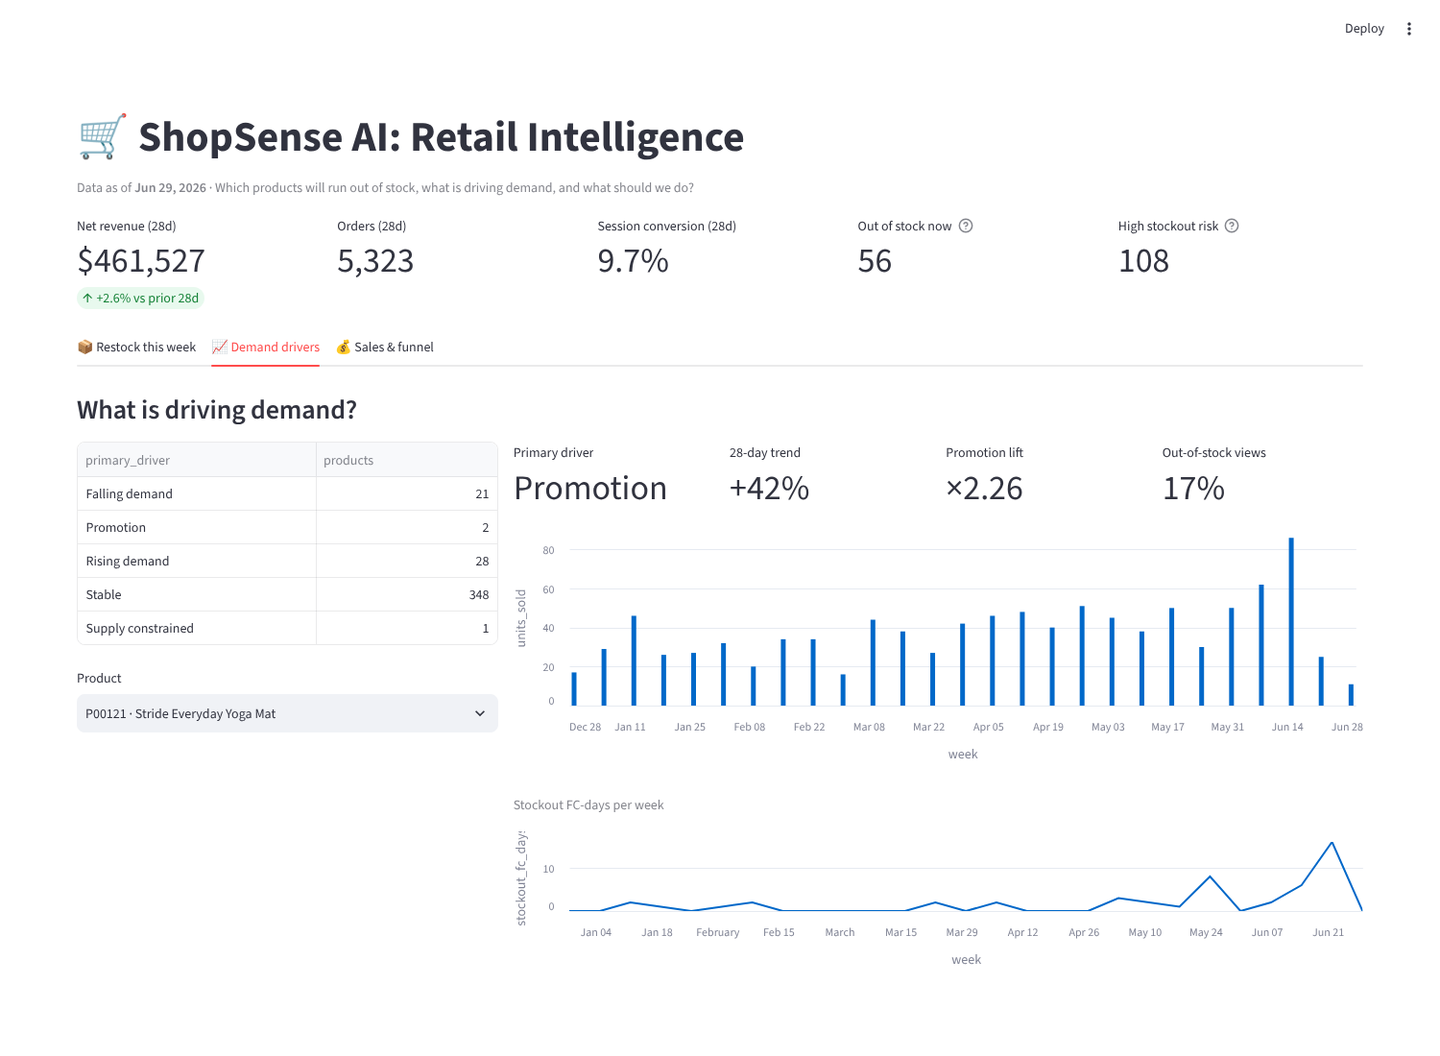
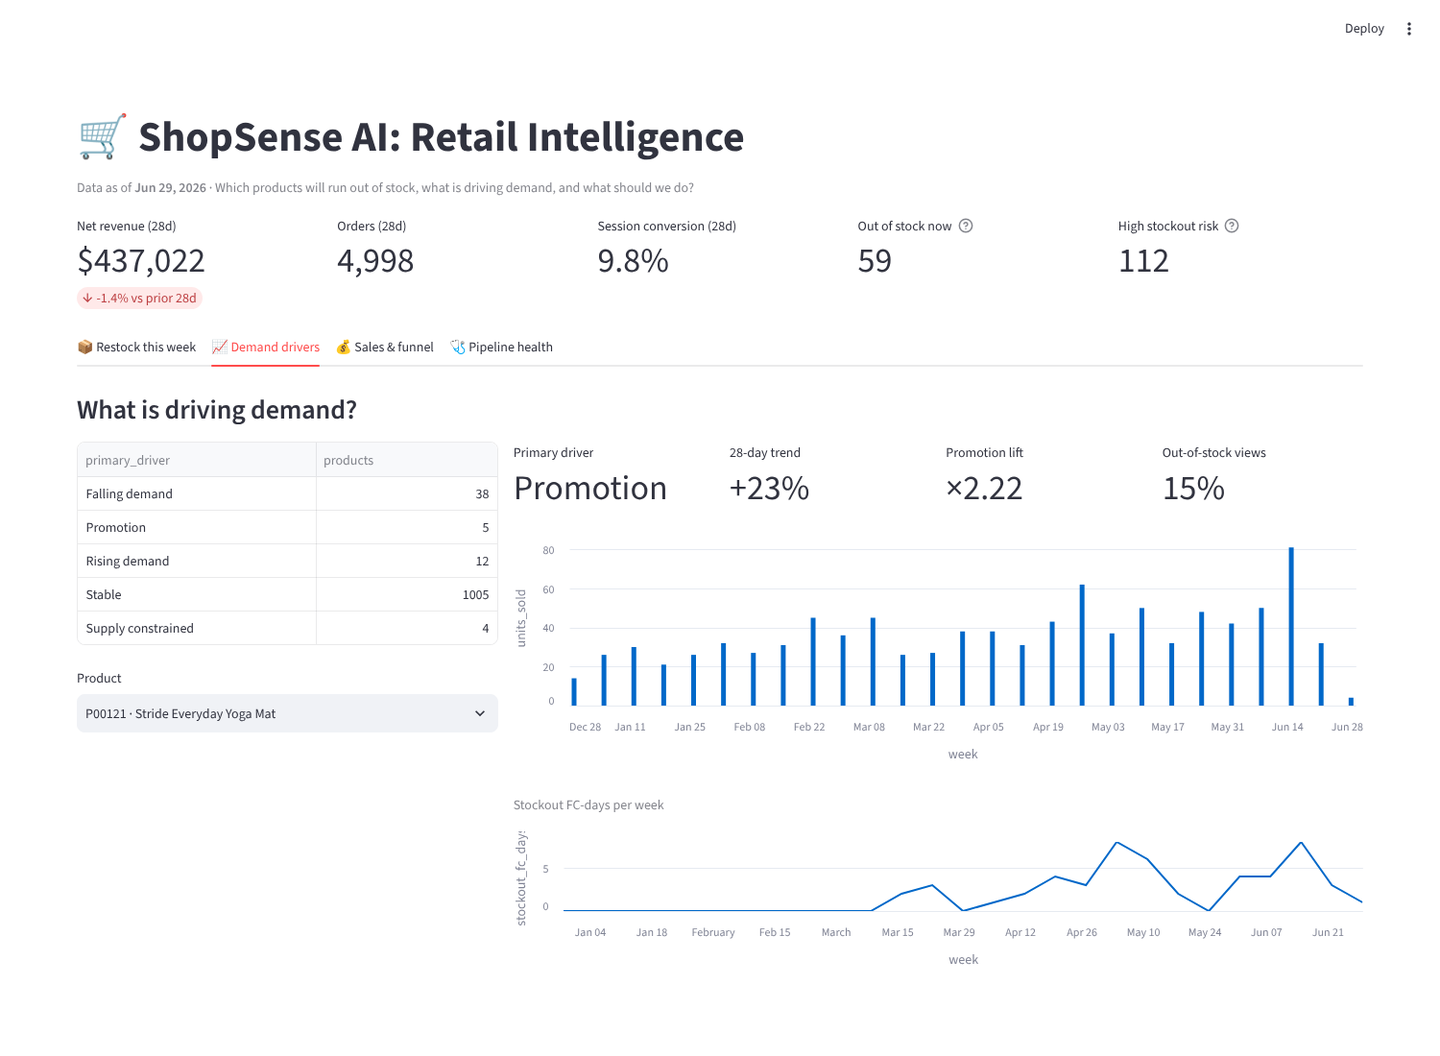
Document stage 2: reliability results, SCD2, quality gates, Airflow, and performance

diff --git a/README.md b/README.md
@@ -11,94 +11,125 @@ An end-to-end retail data platform that turns orders, customer activity, invento
 | Stage | Scope | Status |
 |---|---|---|
 | **1. Core platform** | Retail data → S3-style lake → PySpark transformations → star-schema warehouse → dashboard | ✅ Done |
-| 2. Production reliability | Airflow orchestration, incremental loads, data-quality checks, monitoring, backfills, SCD Type 2, real S3 (MinIO/AWS) | Planned |
-| 3. Streaming | Simulated live orders and clicks, deduplication, late-event handling with watermarks | Planned |
+| **2. Production reliability** | Incremental loads and backfills, SCD Type 2, data-quality gates, Airflow orchestration, monitoring, runbook, performance evidence | ✅ Done |
+| 3. Streaming | Simulated live orders and clicks, deduplication, late-event handling with watermarks | Next |
 | 4. AI | Review summaries and a business assistant that cites the metrics behind its answers | Planned |
+| AWS deployment | Real S3 (MinIO locally), Glue jobs, Redshift Serverless | Planned. Today these are local stand-ins (see [Notes](#notes-and-limitations)). |
 
-## Architecture (stage 1)
+## Architecture
 
 ```mermaid
 flowchart LR
     subgraph Sources["Source systems (simulated)"]
-        GEN["retail_data.py<br/>orders · items · clicks · inventory<br/>products · customers · promotions · reviews"]
+        GEN["retail_data.py<br/>orders · status updates · items · clicks<br/>inventory · catalog snapshots · customer CDC<br/>promotions · reviews"]
     end
-    LAND[("landing/<br/>CSV · JSON · json.gz")]
+    LAND[("landing/")]
     subgraph Lake["Data lake (S3 layout, local folders)"]
-        RAW[("raw/<br/>ingest_date=…<br/>immutable + checksums")]
-        CLEAN[("clean/<br/>Parquet, by business date")]
-        Q[("quarantine/<br/>rejected rows + reason")]
-        CUR[("curated/<br/>star schema Parquet")]
+        RAW[("raw/ ingest_date=…<br/>immutable + checksums")]
+        STG[("_staging/")]
+        CLEAN[("clean/<br/>Parquet by business date")]
+        Q[("quarantine/")]
+        CUR[("curated/<br/>star schema, SCD2 dims")]
+        STATE[("_state/ watermarks<br/>pending changes")]
     end
     subgraph WH["Warehouse (DuckDB · Redshift DDL included)"]
-        DW[("dw.* dims + facts<br/>PKs enforced")]
-        MART["mart.* views<br/>sales · funnel · inventory risk<br/>demand drivers · restock"]
+        DW[("dw.* dims + facts")]
+        OPS[("ops.load_log<br/>ops.dq_results")]
+        MART["mart.* sales · funnel · risk<br/>drivers · restock"]
     end
-    DASH["Streamlit dashboard"]
-    BT["Backtest<br/>stockout flag vs reality"]
+    AF{{"Airflow<br/>shopsense_daily"}}
+    DQ["Data-quality gates"]
+    DASH["Streamlit dashboard<br/>+ pipeline health"]
 
-    GEN --> LAND -->|land_raw.py| RAW
-    RAW -->|PySpark clean.py| CLEAN
-    RAW -->|invalid| Q
-    CLEAN -->|PySpark curate.py| CUR
-    CUR -->|load.py + integrity checks| DW --> MART
-    MART --> DASH
-    MART --> BT
+    GEN --> LAND -->|ingest| RAW
+    RAW -->|PySpark clean, new dates only| STG
+    STG -->|audit| DQ
+    DQ -->|publish changed partitions| CLEAN
+    RAW -->|invalid rows| Q
+    CLEAN --> STATE
+    CLEAN -->|PySpark curate| CUR
+    CUR -->|upsert dims, replace fact partitions| DW
+    DW --> DQ
+    DW --> MART --> DASH
+    OPS --> DASH
+    AF -.orchestrates.-> RAW & CLEAN & CUR & DW
 ```
 
 | Layer | What happens | Code |
 |---|---|---|
-| Generate | Six months of a simulated retailer: popularity × seasonality × promotions drive demand; five fulfillment centers with reorder-point policies produce real stockouts; dirty data is injected on purpose | `shopsense/generate/retail_data.py` |
-| Ingest | Landing → raw, copied byte-for-byte into `ingest_date=` partitions with SHA-256 manifests. Re-runs are skipped; a changed re-delivery is refused unless `--force` | `shopsense/ingest/land_raw.py` |
-| Clean (PySpark) | Typing, two timestamp formats, canonical categories and statuses, validation rules → quarantine with reasons, dedup on business keys, Parquet partitioned by business date (late events land in the right day) | `shopsense/transform/clean.py` |
-| Curate (PySpark) | Star schema: 5 dimensions with surrogate keys and unknown members, 5 facts at explicit grains | `shopsense/transform/curate.py` |
-| Warehouse | Full refresh in one transaction, enforced primary keys, orphan-key and row-count checks, business marts | `shopsense/warehouse/load.py`, `sql/warehouse/` |
-| Redshift | Same schema with `DISTSTYLE ALL` dimensions, `DISTKEY(product_key)`, `SORTKEY(date_key)` and S3 `COPY` (reference, not yet run on AWS) | `sql/redshift/create_tables.sql` |
-| Dashboard | Restock list with actions, demand drivers per product, sales and funnel | `dashboard/app.py` |
+| Generate | Six months of a simulated retailer. Popularity × seasonality × promotions drive demand, and five fulfillment centers with reorder policies produce real stockouts. Products are repriced every Monday, customers move or change membership, and orders are shipped, delivered, cancelled or returned. Dirty data is injected on purpose. | `shopsense/generate/retail_data.py` |
+| Ingest | Landing → raw, copied byte-for-byte into `ingest_date=` partitions with SHA-256 manifests. Re-runs are skipped; a changed re-delivery is refused unless `--force`. | `shopsense/ingest/land_raw.py` |
+| Clean (PySpark, incremental) | Processes only unseen deliveries (watermark state). Handles typing, two timestamp formats and canonical values; invalid rows go to quarantine with a reason; duplicates are removed on business keys. New rows are **merged into only the business-date partitions they touch** via staging → quality checks → publish. Backfills (`--from/--to`) are idempotent. | `shopsense/transform/clean.py` |
+| Curate (PySpark) | Star schema with **SCD Type 2** product and customer dimensions, stable hash surrogate keys, point-in-time lookups, and the latest order status. | `shopsense/transform/curate.py` |
+| Warehouse (incremental) | Dimensions are upserted by primary key; facts **replace only the changed date partitions**. One transaction with integrity and quality checks, otherwise it rolls back. Every load is logged to `ops.load_log`. | `shopsense/warehouse/load.py`, `sql/warehouse/` |
+| Data quality | Lake checks on staged data: keys, nulls, accepted values, day-over-day volume, quarantine rate. Warehouse checks: freshness, completeness, SCD2 validity, revenue sanity, reconciliation. **Errors block publishing.** | `shopsense/quality/checks.py` |
+| Orchestration | Airflow 3 DAG `shopsense_daily` (sensor → ingest → clean → curate → load), with retries and backoff, catch-up backfills, and a `shopsense_reprocess` DAG for corrections | `airflow/` |
+| Monitoring | Dashboard tab for freshness, failing checks, quarantine trend, recent loads and Airflow runs, plus an incident runbook | `dashboard/app.py`, `docs/runbook.md` |
+| Redshift | Same schema with `DISTSTYLE ALL` dimensions, `DISTKEY(product_key)`, `SORTKEY(date_key)`, S3 `COPY`, and the incremental `DELETE`/`INSERT` pattern (reference, not yet run on AWS) | `sql/redshift/create_tables.sql` |
 
-The data model, lake zones and design decisions are in [`docs/data_model.md`](docs/data_model.md).
+Details: [data model](docs/data_model.md) · [performance](docs/performance.md) · [runbook](docs/runbook.md) · [Airflow](airflow/README.md)
 
 ## How the stockout answer is built
 
 `mart.restock_this_week` answers the question directly. For each product at each fulfillment center:
 
-1. **Demand estimate:** units sold in the last 28 days ÷ *days the FC actually had stock*. A product that was out of stock for half the window really sells twice as fast as its raw average suggests.
+1. **Demand estimate:** units sold in the last 28 days ÷ *days the FC actually had stock*. Stockout days would otherwise hide real demand.
 2. **Days of cover** = on hand ÷ daily demand, which gives a **projected stockout date**.
-3. **Risk tier:** *Out of stock* (0 on hand), *High* (< 7 days of cover), *Medium* (< 14), *Low*.
+3. **Risk tier:** *Out of stock*, *High* (< 7 days of cover), *Medium* (< 14), *Low*.
 4. **Action:** reorder enough to cover a 10-day lead time plus 21 days of demand, minus stock on hand and inbound. If stock is already inbound, the action is to expedite it instead.
-5. **Why:** `mart.demand_drivers` labels each product as *Promotion* (lift ≥ 1.3× while on promo), *Supply constrained* (≥ 20% of page views saw "out of stock"), *Rising / Falling demand* (±25% vs the prior 28 days, only with enough volume), or *Stable*.
+5. **Why:** `mart.demand_drivers` labels each product as *Promotion*, *Supply constrained*, *Rising / Falling demand* (only with enough volume), or *Stable*.
 
-## Results (seed 42, 180 days, 2,000 product × FC combinations)
+## Results (seed 42, 180 simulated days)
 
-**Data volume and quality**
+### Reliability: does incremental processing give the right answer?
+- **Incremental = full rebuild.** The lake was built up to day N−4, then 4 more days were processed one at a time. All **10 warehouse tables came out identical** to a full rebuild (row-by-row `EXCEPT ALL` in both directions). The comparison also caught a real bug: a non-deterministic `first()` picked a session's device differently between runs. It's now `min_by(…, event_ts)`.
+- **Small loads:** each incremental day replaced 1–3 date partitions for inventory, sessions and activity, and 12–16 for order lines, because status updates reach back to older orders.
+- **Backfills are idempotent:** reprocessing three already-loaded days changed **0 rows**.
+- **Quality gates work:** a truncated delivery (11 orders against a 186-order median) was **blocked before publishing**. The clean table was unchanged, and the date stayed unprocessed for the retry.
+- **Rollbacks work:** an error-level warehouse check rolls back the whole load and keeps the pending changes (tested).
+
+### Data volume and quality
 
 | Table | Raw rows | Clean rows | Quarantined | Duplicates removed |
 |---|---:|---:|---:|---:|
-| orders | 32,441 | 32,105 | 0 | 336 |
-| order_items | 55,197 | 54,550 | 104 | 543 |
-| clickstream | 1,023,234 | 1,002,452 | 875 | 19,907 |
+| orders | 32,492 | 32,147 | 0 | 345 |
+| order_status_updates | 64,551 | 63,893 | 0 | 658 |
+| order_items | 55,179 | 54,515 | 122 | 542 |
+| clickstream | 1,021,694 | 1,000,738 | 821 | 20,135 |
 | inventory_snapshots | 360,000 | 360,000 | 0 | 0 |
-| reviews | 3,480 | 3,468 | 12 | 0 |
+| catalog snapshots | 10,800 | 10,800 | 0 | 0 |
+| customer CDC | 6,751 | 6,751 | 0 | 0 |
+| reviews | 3,490 | 3,477 | 13 | 0 |
 
-- Every legacy-format timestamp (2% of orders) parsed, and every messy status and category was mapped to its canonical value.
-- **11,876 events arrived 1–2 days late**, and all of them were filed under the day they happened.
-- Reconciliation checks: warehouse net revenue matches the clean lake to the cent ($2,754,403.27), converted sessions equal clean orders, and there are 0 orphan keys.
+- **SCD Type 2:** 400 products became 1,064 versions, with 337 products repriced at least once. 703 customers have more than one version. **100% of order lines match the price of the product version valid on their order date.**
+- **11,783 late events** (1–2 days late) were filed under the day they happened.
+- **67 data-quality checks**, all passing on the final run.
+- Order lifecycle: 29,148 delivered, 1,394 returned, 692 shipped, 648 cancelled (excluded from revenue), 228 still placed. Net revenue is $2.70M, with $123k returned.
 
-**Business output (as of Jun 29, 2026)**
-- 56 product × FC combinations out of stock and 108 at high risk, putting **$4,182 a day of revenue** at risk.
-- Session conversion is 9.8%, and **10.5% of sessions hit an out-of-stock page**.
+### Business output (as of Jun 29, 2026)
+- 59 product × FC combinations out of stock and 112 at high risk, putting **$4,755 a day of revenue** at risk.
+- Session conversion is 9.8%, and 9.9% of sessions hit an out-of-stock page.
 
-**Backtest: is the High flag right?** On every Monday in the history I checked whether each product × FC flagged High actually stocked out within 7 days (21 weeks, 33,070 observations, 1,735 real stockouts).
+**Backtest of the High flag** (every Monday: did the product × FC actually stock out within 7 days?):
 
 | Demand estimate | Flagged | Caught | Precision | Recall |
 |---|---:|---:|---:|---:|
-| Stockout-adjusted (used) | 2,069 | 661 | 31.9% | **38.1%** |
-| Naive (units ÷ 28 days) | 1,814 | 615 | 33.9% | 35.4% |
+| Stockout-adjusted (used) | 2,163 | 641 | 29.6% | **39.4%** |
+| Naive (units ÷ 28 days) | 1,460 | 502 | 34.4% | 30.9% |
 
-The stockout adjustment catches more real stockouts (recall +2.7 points) at slightly lower precision. A rule this simple still misses most stockouts: demand per product and FC is only 1–2 units a day, so random variation is large, and the inventory feed doesn't say *when* inbound stock will arrive. This is a transparent baseline that the forecasting work in later stages has to beat.
+The stockout adjustment catches 28% more real stockouts (recall 39.4% vs 30.9%) at lower precision. A days-of-cover rule still misses most stockouts: demand per product and FC is 1–2 units a day, and the feed doesn't say when inbound stock arrives. This is a transparent baseline for later forecasting to beat.
 
-**Runtime and storage:** the full pipeline runs in about 2.5 minutes on a laptop (generate 58 s, clean 66 s, curate 17 s, warehouse load 1.5 s). The lake is 38 MB raw → 33 MB clean → 8.3 MB curated. Writing one file per date partition instead of Spark's default cut the clean zone from 51 MB to 33 MB and avoided hundreds of tiny files.
+### Performance ([details](docs/performance.md))
 
-![Demand drivers](docs/images/dashboard_drivers.png)
+| Experiment | Before | After |
+|---|---:|---:|
+| Raw gzip JSON → Parquet (daily views per product) | 0.488 s | **0.078 s** (6.3×) |
+| Partition pruning (one week of sessions) | 181 files / 22 MB | **7 files / 0.8 MB**, 4× faster |
+| Small files → one file per day | 0.054 s | **0.022 s** (2.5×) |
+| Materialize `mart.product_fc_daily` (21-date backtest) | 0.556 s | **0.342 s** (1.6×) |
+
+![Pipeline health](docs/images/dashboard_health.png)
+*The Airflow row comes from the `airflow dags test` run described in [airflow/README.md](airflow/README.md).*
 
 ## Setup
 
@@ -111,31 +142,28 @@ python3.12 -m venv .venv && source .venv/bin/activate
 pip install -r requirements.txt
 ```
 
-On macOS, install Java with `brew install openjdk@21`.
+On macOS, install Java with `brew install openjdk@21`. To set up Airflow, see [airflow/README.md](airflow/README.md); it uses its own virtualenv.
 
 ## Run
 
 ```bash
-python -m shopsense.pipeline                 # generate → ingest → clean → curate → load → backtest
-streamlit run dashboard/app.py               # open http://localhost:8501
-pytest                                       # 21 tests, about 80 s
+python -m shopsense.pipeline                 # fresh run: generate → ingest → clean → curate → load → backtest
+python -m shopsense.pipeline --skip-generate # incremental: only new deliveries
+streamlit run dashboard/app.py               # http://localhost:8501
+pytest                                       # 33 tests, about 4.5 minutes
 ```
 
-Or one stage at a time:
+Individual steps:
 
 ```bash
-python -m shopsense.generate.retail_data     # landing files (--days, --seed)
-python -m shopsense.ingest.land_raw          # landing → raw (--date, --force)
-python -m shopsense.transform.clean          # raw → clean + quarantine
-python -m shopsense.transform.curate         # clean → star schema
-python -m shopsense.warehouse.load           # curated → warehouse + marts
-python -m shopsense.warehouse.backtest       # evaluate the stockout flag
-```
-
-Query the warehouse directly:
-
-```bash
-duckdb warehouse/shopsense.duckdb "SELECT * FROM mart.restock_this_week LIMIT 10"
+python -m shopsense.ingest.land_raw --date 2026-06-29 [--force]
+python -m shopsense.transform.clean                          # new deliveries only
+python -m shopsense.transform.clean --from 2026-03-01 --to 2026-03-07   # backfill (idempotent)
+python -m shopsense.transform.clean --full                   # rebuild the clean zone
+python -m shopsense.transform.curate
+python -m shopsense.warehouse.load [--full]                  # incremental by default
+python -m shopsense.warehouse.backtest
+python -m shopsense.warehouse.benchmark                      # performance experiments
 ```
 
 ## Project structure
@@ -143,27 +171,31 @@ duckdb warehouse/shopsense.duckdb "SELECT * FROM mart.restock_this_week LIMIT 10
 ```
 Shopsense-AI/
 ├── shopsense/
-│   ├── config.py                 # lake / warehouse paths (env-overridable)
-│   ├── pipeline.py               # end-to-end runner with step timings
-│   ├── generate/retail_data.py   # simulated retailer + dirty data
-│   ├── ingest/land_raw.py        # landing → raw, checksums, audit log
+│   ├── config.py                  # lake / warehouse paths (env-overridable)
+│   ├── pipeline.py                # one-command runner with step timings
+│   ├── generate/retail_data.py    # simulated retailer + change feeds + dirty data
+│   ├── ingest/land_raw.py         # landing → raw, checksums, audit log
 │   ├── transform/
-│   │   ├── spark.py              # SparkSession (local now, Glue later)
-│   │   ├── clean.py              # raw → clean + quarantine
-│   │   └── curate.py             # clean → star schema
+│   │   ├── spark.py               # SparkSession (local now, Glue later)
+│   │   ├── clean.py               # incremental raw → clean, write-audit-publish
+│   │   └── curate.py              # star schema, SCD Type 2
+│   ├── quality/checks.py          # lake + warehouse data-quality gates
 │   └── warehouse/
-│       ├── load.py               # DuckDB load + integrity checks
-│       └── backtest.py           # stockout flag vs what happened
+│       ├── load.py                # incremental / full load, integrity, ops log
+│       ├── backtest.py            # stockout flag vs what happened
+│       └── benchmark.py           # performance experiments
 ├── sql/
-│   ├── warehouse/ddl.sql         # warehouse tables (PKs enforced)
-│   ├── warehouse/marts.sql       # sales, funnel, inventory risk, drivers, restock
+│   ├── warehouse/ddl.sql          # dw, mart and ops schemas
+│   ├── warehouse/marts.sql        # sales, funnel, inventory risk, drivers, restock
 │   └── redshift/create_tables.sql
-├── dashboard/app.py              # Streamlit
-├── docs/                         # data model, screenshots
-└── tests/                        # unit + end-to-end tests
+├── airflow/dags/shopsense_daily.py
+├── dashboard/app.py               # Streamlit (4 tabs incl. pipeline health)
+├── docs/                          # data model, runbook, performance, screenshots
+└── tests/                         # unit, end-to-end, incremental-vs-full
 ```
 
 ## Notes and limitations
-- **Synthetic data:** the retailer is simulated, so the "right answer" is known. That's what makes the backtest possible.
-- **Local stand-ins for AWS:** the lake uses the S3 folder layout on local disk, Spark runs locally instead of on AWS Glue, and DuckDB plays the role of Redshift. Stage 2 adds real S3 (MinIO locally, AWS optionally) and runs the Redshift DDL.
-- **Lead time:** fixed at 10 days for the reorder recommendation, because the inventory feed doesn't carry supplier lead times.
+- **Synthetic data:** the retailer is simulated, so the right answer is known. That makes the backtest and the SCD2 price check possible.
+- **Local stand-ins for AWS:** the lake uses the S3 layout on local disk, Spark runs locally instead of on Glue, and DuckDB stands in for Redshift. The Redshift DDL is written but has not been run on AWS.
+- **Curated is rebuilt each run** (about 20 s here), while clean and the warehouse are incremental. At larger scale, curate would also process only the changed partitions.
+- **Lead time** is fixed at 10 days for the reorder recommendation, because the inventory feed doesn't carry supplier lead times.

diff --git a/docs/data_model.md b/docs/data_model.md
@@ -9,7 +9,9 @@
 | Clean | `lake/clean/<table>/` | Parquet (snappy) | business date (`order_date`, `event_date`, `snapshot_date`) | `shopsense/transform/clean.py` |
 | Quarantine | `lake/quarantine/<table>/` | Parquet: reason + original record as JSON | none | `shopsense/transform/clean.py` |
 | Curated | `lake/curated/<table>/` | Parquet star schema | none (small) | `shopsense/transform/curate.py` |
-| Audit | `lake/_audit/` | JSON / JSON lines | none | every stage |
+| Staging | `lake/_staging/<table>/` | Parquet, transient | as clean | `clean.publish()`: write → audit → publish |
+| State | `lake/_state/` | JSON | none | processed ingest dates, pending warehouse changes |
+| Audit | `lake/_audit/` | JSON lines | none | every stage: ingest log, clean runs, DQ results, pipeline runs |
 
 Raw is partitioned by when data *arrived*, and clean by when it *happened*. A click from Monday that arrives on Tuesday sits in raw under `ingest_date=Tuesday` and in clean under `event_date=Monday`. The `arrival_lag_days` column records the difference.
 
@@ -79,19 +81,21 @@ erDiagram
         varchar body
     }
     dim_product {
-        int product_key PK
+        bigint product_key PK
         varchar product_id
         varchar category
         decimal list_price
+        int version
         date effective_from
         date effective_to
         bool is_current
     }
     dim_customer {
-        int customer_key PK
+        bigint customer_key PK
         varchar customer_id
         varchar region
         bool is_member
+        int version
         date effective_from
         date effective_to
         bool is_current
@@ -110,8 +114,11 @@ erDiagram
 
 ## Design decisions
 
-- **Surrogate keys:** dimensions use integer keys, so facts stay narrow and joins are fast. Natural keys such as `product_id` stay on the dimension.
+- **Stable surrogate keys:** each key is a 64-bit hash of (natural key, `effective_from`). Adding a new SCD2 version adds a key without renumbering existing ones, so the warehouse can load incrementally without rewriting old facts. Natural keys such as `product_id` stay on the dimension.
+- **SCD Type 2:** `dim_product` is built from weekly catalog snapshots. Repeated identical snapshots are collapsed, and a new version starts only when the name, category, brand, price or cost changes. `dim_customer` is built from a daily CDC feed (new signups, region moves, membership changes). Version 1 is valid from 1900-01-01, so activity before the first extract still resolves.
+- **Point-in-time lookups:** every fact picks the version valid on its own date, so a January order keeps January's price. A test checks that 100% of order lines match the list price of the version they point to.
 - **Unknown members (`key = -1`):** a fact row whose lookup fails is still counted, and it's easy to find, instead of an inner join dropping it silently. The current data has none, and the tests check that.
-- **SCD Type 2 columns:** `effective_from`, `effective_to` and `is_current` are already on `dim_product` and `dim_customer`. Stage 2 fills them when product prices or customer attributes change.
+- **Order status is mutable:** orders move through placed → shipped → delivered, or get cancelled or returned. The latest status comes from the status-update feed, so an incremental load refreshes old order dates when their status changes.
 - **Primary keys enforced in the warehouse:** loading a duplicate grain fails the load instead of double-counting revenue.
-- **Marts are views over the facts:** the stockout logic is a table macro, `mart.inventory_risk_as_of(date)`, so the same SQL can be backtested on any past date.
+- **Marts:** most are views. `mart.product_fc_daily` is materialized because the backtest reads it 21 times, which made it 1.6× faster (see `docs/performance.md`). The stockout logic is a table macro, `mart.inventory_risk_as_of(date)`, so the same SQL can be backtested on any past date.
+- **`ops` schema:** `ops.load_log` records every warehouse load (mode, partitions, rows deleted and inserted), and `ops.dq_results` mirrors every data-quality check result.
